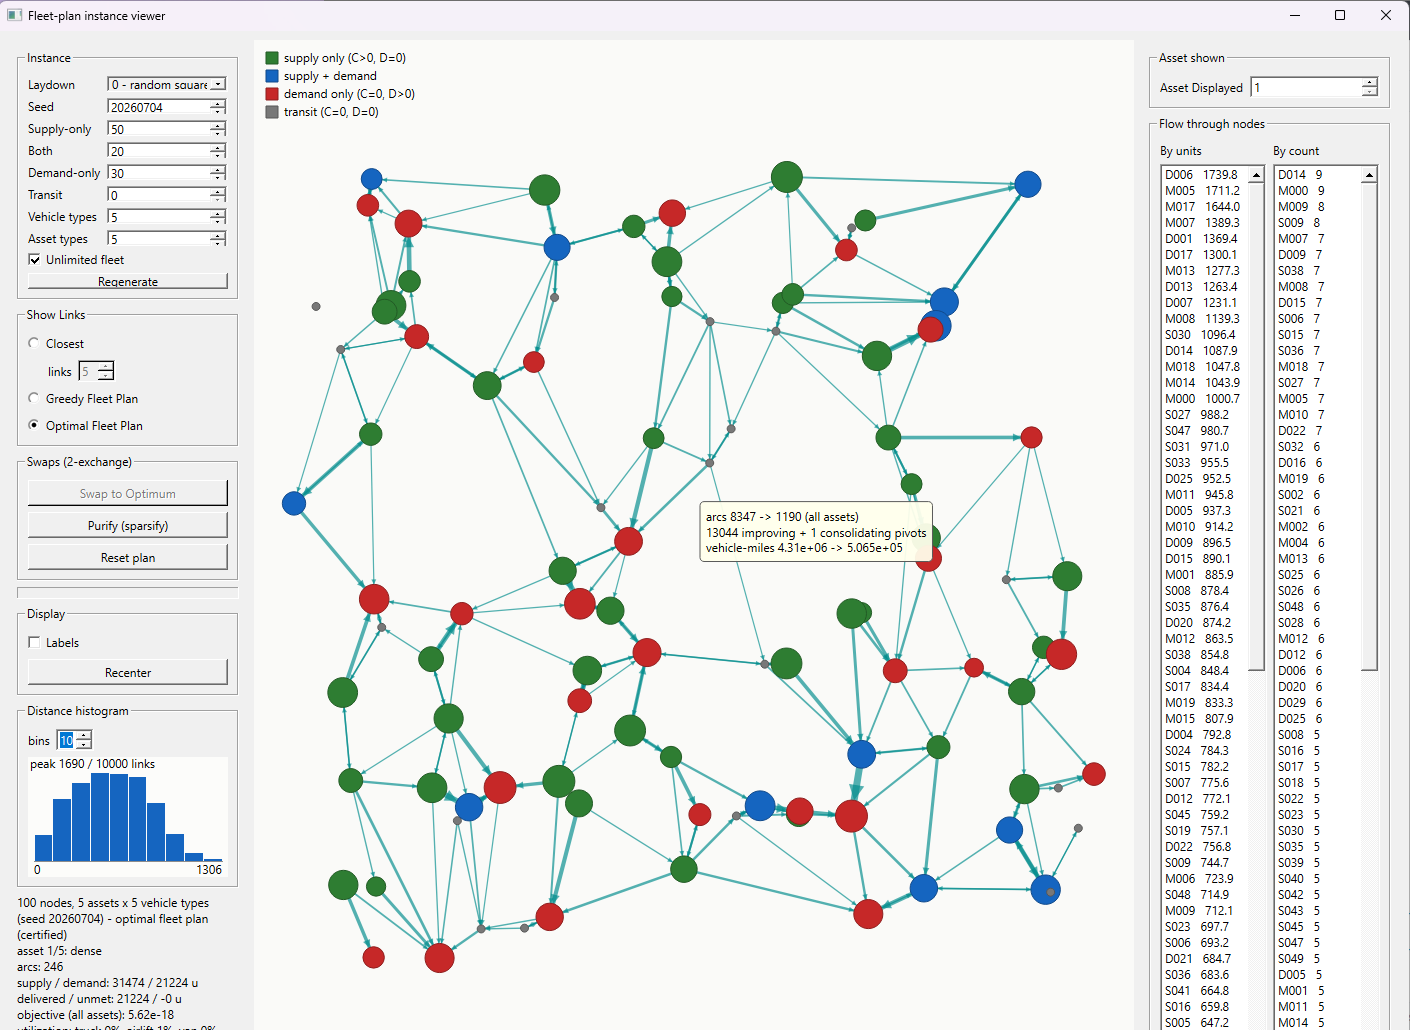
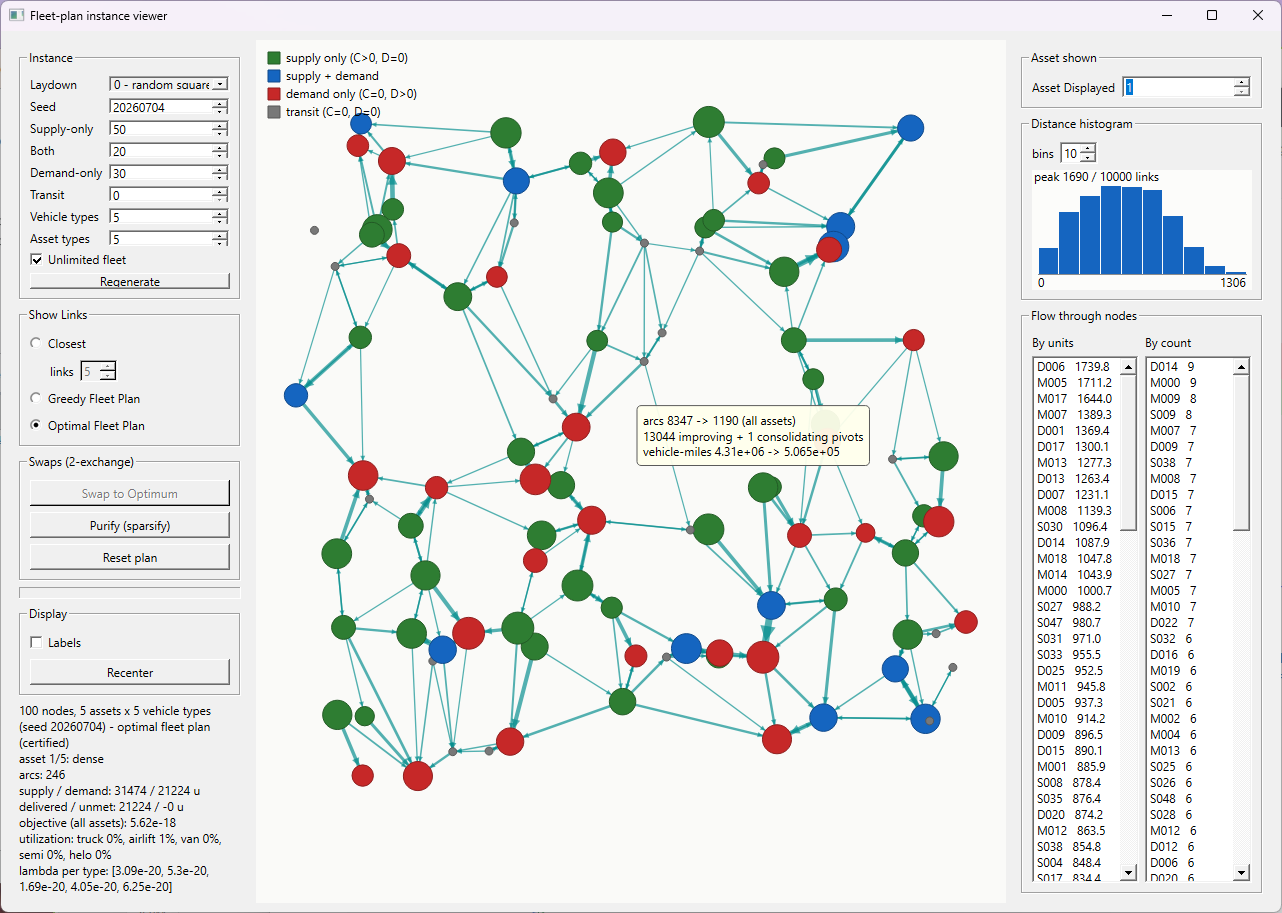
update pictures

diff --git a/visolver/doc/report/main.tex b/visolver/doc/report/main.tex
@@ -49,7 +49,8 @@
 
 % -----------------------------------------------------------------------------
 
-\title{VI/MCP: A C++ Library for Variational Inequalities and\\
+\title{VIMCP: A Library for Variational Inequalities\\
+ and\\
        Mixed Complementarity Problems\\
        \large Design, Use, and Validation}
 \author{Ben Paul Wise}
